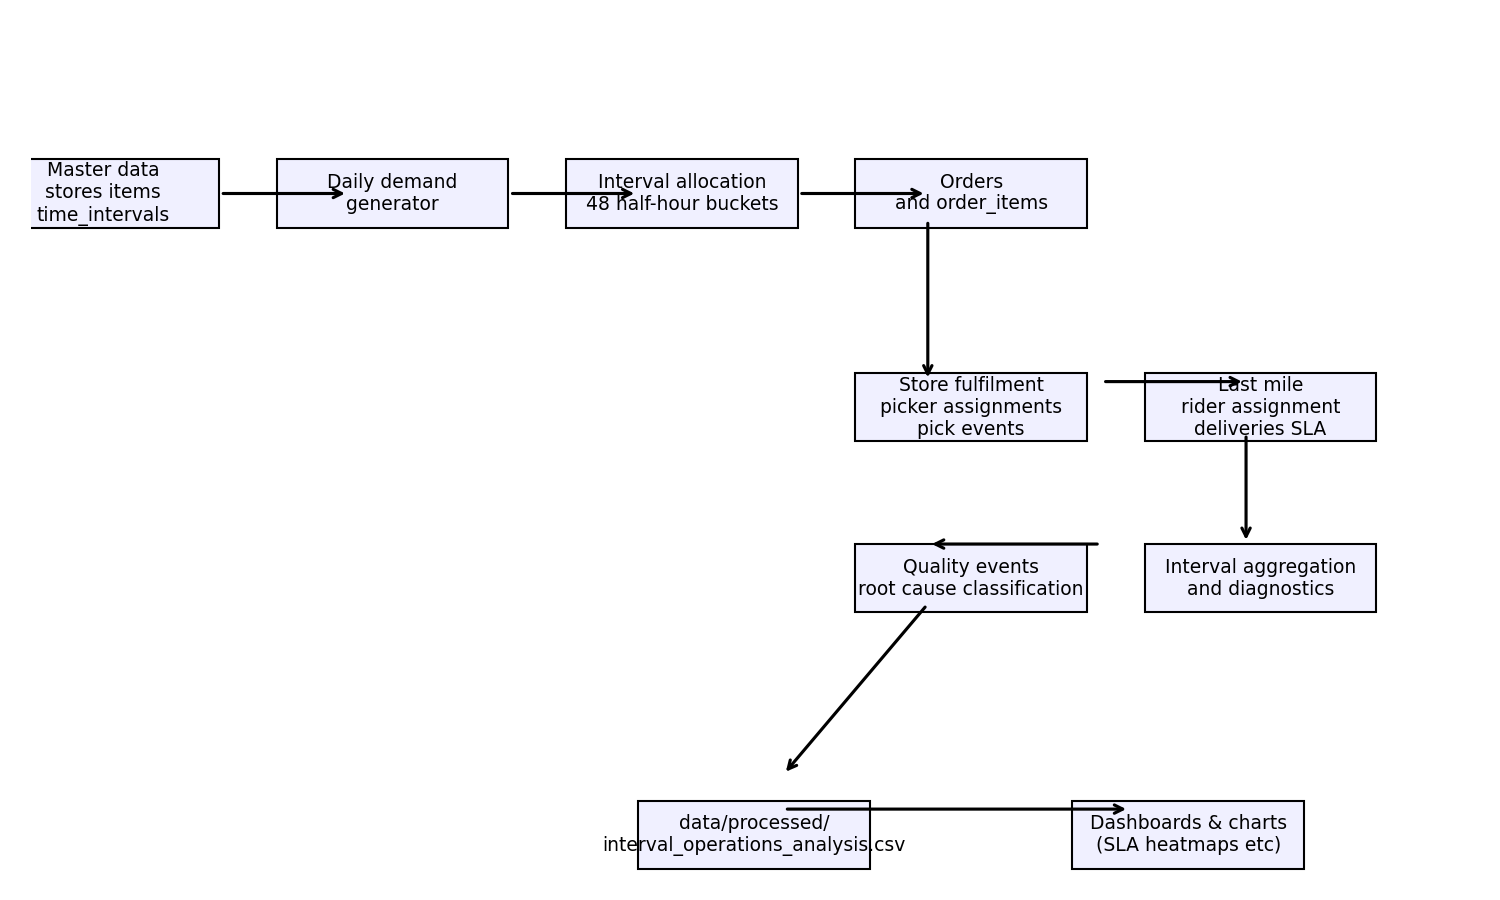
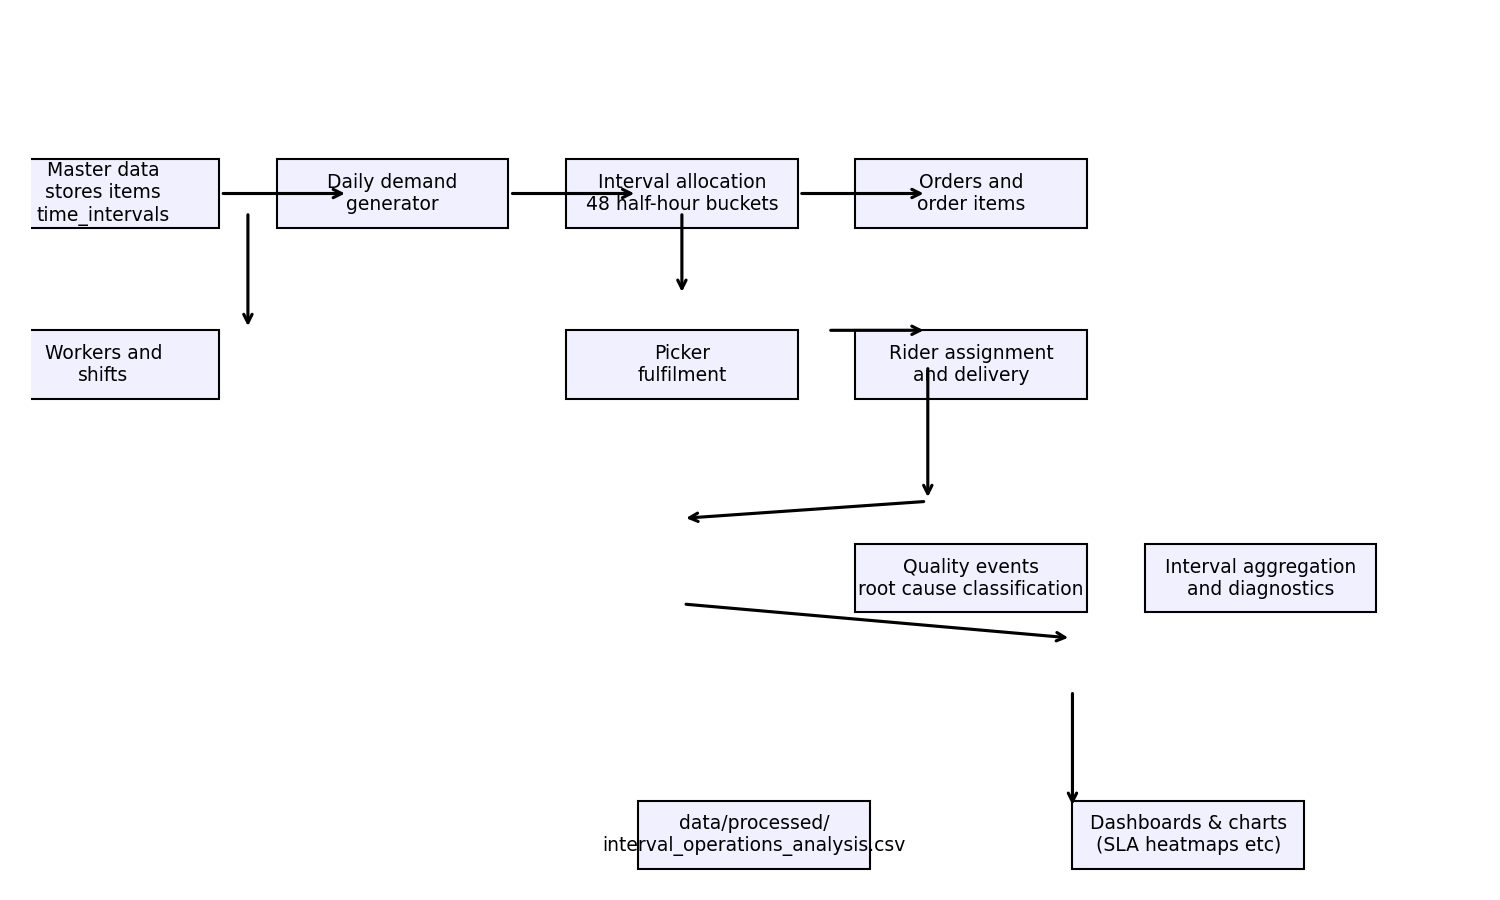
docs: regenerate pipeline PNG and add column-level join lists + validation checks

diff --git a/scripts/generate_pipeline_diagram.py b/scripts/generate_pipeline_diagram.py
@@ -16,9 +16,10 @@ boxes = [
     (0.05, 0.8, 'Master data\nstores items\ntime_intervals'),
     (0.25, 0.8, 'Daily demand\ngenerator'),
     (0.45, 0.8, 'Interval allocation\n48 half-hour buckets'),
-    (0.65, 0.8, 'Orders\nand order_items'),
-    (0.65, 0.55, 'Store fulfilment\npicker assignments\npick events'),
-    (0.85, 0.55, 'Last mile\nrider assignment\ndeliveries SLA'),
+    (0.65, 0.8, 'Orders and\norder items'),
+    (0.05, 0.6, 'Workers and\nshifts'),
+    (0.45, 0.6, 'Picker\nfulfilment'),
+    (0.65, 0.6, 'Rider assignment\nand delivery'),
     (0.85, 0.35, 'Interval aggregation\nand diagnostics'),
     (0.65, 0.35, 'Quality events\nroot cause classification'),
     (0.5, 0.05, 'data/processed/\ninterval_operations_analysis.csv'),
@@ -36,12 +37,13 @@ def arrow(a,b):
 arrow((0.13,0.8),(0.22,0.8))
 arrow((0.33,0.8),(0.42,0.8))
 arrow((0.53,0.8),(0.62,0.8))
-arrow((0.62,0.77),(0.62,0.58))
-arrow((0.74,0.58),(0.84,0.58))
-arrow((0.84,0.52),(0.84,0.39))
-arrow((0.74,0.39),(0.62,0.39))
-arrow((0.62,0.32),(0.52,0.12))
-arrow((0.52,0.08),(0.76,0.08))
+arrow((0.15,0.78),(0.15,0.64))
+arrow((0.45,0.78),(0.45,0.68))
+arrow((0.55,0.64),(0.62,0.64))
+arrow((0.62,0.6),(0.62,0.44))
+arrow((0.62,0.44),(0.45,0.42))
+arrow((0.45,0.32),(0.72,0.28))
+arrow((0.72,0.22),(0.72,0.08))
 
 plt.tight_layout()
 plt.savefig(OUT, dpi=150)

diff --git a/README.md b/README.md
@@ -329,7 +329,99 @@ qagg = quality.groupby(['Store_ID','Date','Interval_ID']).agg({'issue_id':'count
 fact = fact.merge(qagg, on=['Store_ID','Date','Interval_ID'], how='left')
 ```
 
-These examples are intentionally short — during our walkthrough we'll expand each join with exact column lists, null handling, and validation checks.
+These examples are intentionally short. Below are representative column-level join lists (typical columns observed in this repo) and validation checks you can run to ensure joins are correct.
+
+**Column-level join lists (representative)**
+- `data/raw/stores.csv`: `Store_ID`, `store_name`, `latitude`, `longitude`, `city`, `store_type`, `Base_Daily_Orders`
+- `data/raw/time_intervals.csv`: `Interval_ID`, `Start_Time`, `End_Time`, `Daypart`, `Default_Peak_Flag`
+- `data/raw/daily_store_demand.csv`: `Store_ID`, `Date`, `Expected_Daily_Orders`, `Actual_Daily_Orders`, `Promotion_Flag`, `Weather_Risk`
+- `data/raw/interval_demand.csv`: `Store_ID`, `Date`, `Interval_ID`, `Interval_Orders`, `Interval_Share`
+- `data/raw/orders.csv`: `Order_ID`, `Store_ID`, `Date`, `Interval_ID`, `Created_At`, `Total_Items`, `Order_Value_INR`
+- `data/raw/order_items.csv`: `Order_Item_ID`, `Order_ID`, `SKU`, `Quantity`, `Unit_Price_INR`
+- `data/raw/order_picker_assignments.csv`: `assignment_id`, `Order_ID`, `Picker_ID`, `Assigned_At`
+- `data/raw/fulfilment_events.csv`: `event_id`, `assignment_id`, `pick_start_min`, `pick_end_min`, `pick_duration_min`
+- `data/raw/order_rider_assignments.csv`: `assignment_id`, `Order_ID`, `Rider_ID`, `Assigned_At`
+- `data/raw/delivery_events.csv`: `delivery_id`, `Order_ID`, `pickup_time`, `delivery_time`, `total_delivery_min`, `rider_distance_km`
+- `data/raw/quality_issues.csv`: `issue_id`, `Order_ID`, `Store_ID`, `Date`, `Interval_ID`, `issue_type`, `severity`
+- `data/processed/interval_operations_analysis.csv` (fact): `Store_Date_Interval_ID`, `Store_ID`, `Date`, `Interval_ID`, `Daypart`, `Orders`, `Units`, `Active_Pickers`, `Required_Pickers_At_Target`, `Active_Riders`, `Required_Riders_At_Target`, `SLA_Breaches`, `Average_Total_Delivery_Min`, `Quality_Issue_Count`, `Dominant_Root_Cause`
+
+**Validation checks (quick SQL and pandas snippets)**
+
+- 1) Foreign-key completeness: every `Store_ID` in `daily_store_demand` must exist in `stores`.
+
+SQL:
+```sql
+SELECT COUNT(*) AS missing_stores
+FROM data_raw.daily_store_demand d
+LEFT JOIN data_raw.stores s ON d.Store_ID = s.Store_ID
+WHERE s.Store_ID IS NULL;
+```
+
+pandas:
+```python
+stores = pd.read_csv('data/raw/stores.csv')
+demand = pd.read_csv('data/raw/daily_store_demand.csv')
+missing = demand[~demand.Store_ID.isin(stores.Store_ID)]
+len(missing)
+```
+
+- 2) Interval-to-daily reconciliation: per `Store_ID` × `Date`, sum(`Interval_Orders`) == `Actual_Daily_Orders`.
+
+SQL:
+```sql
+SELECT d.Store_ID, d.Date,
+	d.Actual_Daily_Orders,
+	SUM(i.Interval_Orders) AS interval_sum
+FROM data_raw.daily_store_demand d
+JOIN data_raw.interval_demand i ON d.Store_ID = i.Store_ID AND d.Date = i.Date
+GROUP BY d.Store_ID, d.Date
+HAVING d.Actual_Daily_Orders <> SUM(i.Interval_Orders);
+```
+
+pandas:
+```python
+ia = pd.read_csv('data/raw/interval_demand.csv')
+dd = pd.read_csv('data/raw/daily_store_demand.csv')
+agg = ia.groupby(['Store_ID','Date']).Interval_Orders.sum().reset_index().rename(columns={'Interval_Orders':'interval_sum'})
+check = dd.merge(agg, on=['Store_ID','Date'], how='left')
+check[check.Actual_Daily_Orders != check.interval_sum]
+```
+
+- 3) Non-null join keys on fact: ensure `Store_ID`, `Date`, `Interval_ID` are present on every fact row.
+
+SQL:
+```sql
+SELECT COUNT(*) FROM data_processed.interval_operations_analysis WHERE Store_ID IS NULL OR Date IS NULL OR Interval_ID IS NULL;
+```
+
+pandas:
+```python
+fact = pd.read_csv('data/processed/interval_operations_analysis.csv')
+fact[fact[['Store_ID','Date','Interval_ID']].isnull().any(axis=1)]
+```
+
+- 4) Row-count sanity: number of fact rows should equal (#stores × #dates × 48) for a complete run (or fewer if trimmed).
+
+```python
+stores = pd.read_csv('data/raw/stores.csv')
+intervals = 48
+dates = fact.Date.nunique()
+expected = len(stores) * dates * intervals
+len(fact), expected
+```
+
+- 5) SLA aggregation validation: sum of per-order SLA breach flags aggregated to interval should equal `SLA_Breaches` in the fact.
+
+```sql
+SELECT f.Store_ID, f.Date, f.Interval_ID, f.SLA_Breaches,
+	SUM(o.sla_breach_flag) AS order_breaches
+FROM data_processed.interval_operations_analysis f
+JOIN data_raw.orders o ON f.Store_ID = o.Store_ID AND f.Date = o.Date AND f.Interval_ID = o.Interval_ID
+GROUP BY f.Store_ID, f.Date, f.Interval_ID
+HAVING f.SLA_Breaches <> SUM(o.sla_breach_flag);
+```
+
+These validation checks are a good starting point; during the final walkthrough I can add CI-style assertions (pytest or simple `scripts/validate_fact.py`) that raise errors when checks fail. If you want, I'll add `scripts/validate_fact.py` that runs the pandas checks and returns non-zero exit codes for CI.
 
 
 ---
